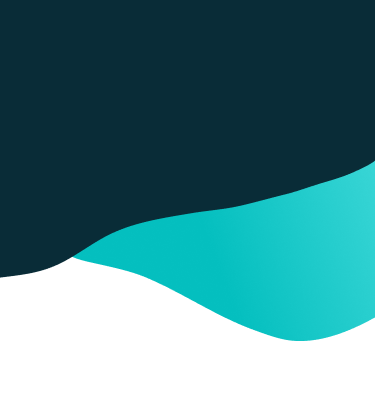
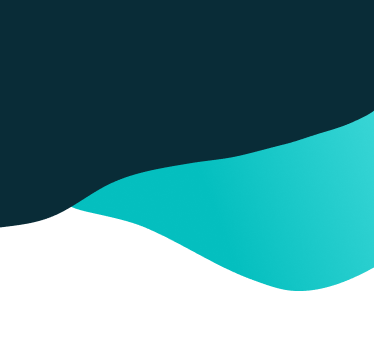
Sign In Changed

Changed region(s): [[0.0, 0.303, 1.0, 0.8485]]

diff --git a/lib/Screens/login.dart b/lib/Screens/login.dart
@@ -1,9 +1,10 @@
+import 'package:flutter/cupertino.dart';
 import 'package:flutter/material.dart';
 import 'package:medicure/constants.dart';
 import 'package:medicure/Components/welcome_pages_appbar.dart';
+import 'package:cupertino_icons/cupertino_icons.dart';
 
 class LoginPage extends StatelessWidget {
-
   @override
   Widget build(BuildContext context) {
     return Scaffold(
@@ -19,143 +20,133 @@ class LoginPage extends StatelessWidget {
             image: DecorationImage(
                 image: AssetImage("images/sign_in_bg.png"),
                 fit: BoxFit.fitWidth,
-                alignment: Alignment.topLeft)),
-        child: Column(
-          mainAxisAlignment: MainAxisAlignment.center,
-          children: [
-            Padding(
-              padding: EdgeInsets.only(left: 36, top: 136),
-              child: Text(
+                alignment: Alignment.topCenter)),
+        child: Padding(
+          padding: EdgeInsets.symmetric(horizontal: 36),
+          child: ListView(
+            children: [
+              SizedBox(height: 14),
+              Text(
                 'Welcome\nBack',
                 style: kheadingTextStyle.copyWith(color: Colors.white),
               ),
-            ),
-            SizedBox(
-              height: 156,
-            ),
-            Column(
-              crossAxisAlignment: CrossAxisAlignment.start,
-              children: [
-                Padding(
-                  padding: kNPELeftPadding,
-                  child: Text(
-                    'Email',
+              SizedBox(height: 125),
+              Text(
+                'Email',
+                style: TextStyle(fontWeight: FontWeight.w500),
+              ),
+              SizedBox(
+                height: 4,
+              ),
+              Opacity(
+                opacity: 0.6,
+                child: TextField(
+                  keyboardType: TextInputType.emailAddress,
+                  textAlign: TextAlign.left,
+                  style: TextStyle(
+                      fontSize: 16,
+                      color: Color(0xFF092C37),
+                      fontWeight: FontWeight.bold),
+                  onChanged: (value) {
+                    //TODO: Functionality.
+                  },
+                  decoration: kTextFieldDecoration.copyWith(
+                    suffixIcon: Icon(
+                      Icons.check_circle,
+                      color: Colors.black,
+                    ),
+                  ),
+                ),
+              ),
+              SizedBox(
+                height: 28,
+              ),
+              Text(
+                'Password',
+                style: TextStyle(
+                  fontWeight: FontWeight.w500,
+                ),
+              ),
+              SizedBox(
+                height: 4,
+              ),
+              Opacity(
+                opacity: 0.6,
+                child: TextField(
+                  keyboardType: TextInputType.visiblePassword,
+                  obscureText: true,
+                  textAlign: TextAlign.left,
+                  style: TextStyle(
+                      fontSize: 16,
+                      color: Color(0xFF092C37),
+                      fontWeight: FontWeight.bold),
+                  onChanged: (value) {
+                    //TODO: Functionality.
+                  },
+                  decoration: kTextFieldDecoration.copyWith(
+                    suffixIcon: Icon(
+                      Icons.remove_red_eye,
+                      color: Colors.black,
+                    ),
+                  ),
+                ),
+              ),
+              SizedBox(
+                height: 45,
+              ),
+              Row(
+                mainAxisAlignment: MainAxisAlignment.spaceBetween,
+                children: [
+                  Text(
+                    'Sign in',
+                    style: TextStyle(
+                      fontWeight: FontWeight.w700,
+                      fontSize: 24,
+                    ),
+                  ),
+                  Material(
+                    color: Colors.black,
+                    shape: CircleBorder(),
+                    elevation: 5.0,
+                    child: Container(
+                      child: Icon(CupertinoIcons.arrow_right, color: Colors.black,size: 40,),
+                      width: 96,
+                      height: 96,
+                      decoration: BoxDecoration(
+                          borderRadius: BorderRadius.all(Radius.circular(56)),
+                          gradient: LinearGradient(
+                              colors: [Color(0xFF092C37).withOpacity(0.4), Color(0xFFF3FBFE).withOpacity(0.4)])
+                      ),
+                    ),
+                  ),
+                ],
+              ),
+              SizedBox(
+                height: 40,
+              ),
+              Row(
+                mainAxisAlignment: MainAxisAlignment.spaceBetween,
+                children: [
+                  Text(
+                    'Sign up',
                     style: TextStyle(
                       fontWeight: FontWeight.w500,
+                      fontSize: 16,
+                      decoration: TextDecoration.underline,
                     ),
                   ),
-                ),
-                SizedBox(
-                  height: 6,
-                ),
-                Padding(
-                  padding: kNPELeftRightPadding,
-                  child: TextField(
-                    keyboardType: TextInputType.emailAddress,
-                    textAlign: TextAlign.center,
-                    onChanged: (value) {
-                      //TODO: Functionality.
-                    },
-                    decoration: kTextFieldDecoration.copyWith(
-                      suffixIcon: Icon(
-                        Icons.email,
-                      ),
+                  Text(
+                    'Forgot Password',
+                    style: TextStyle(
+                      fontWeight: FontWeight.w500,
+                      fontSize: 16,
+                      decoration: TextDecoration.underline,
                     ),
                   ),
-                ),
-                SizedBox(
-                  height: 32,
-                ),
-                Padding(
-                  padding: kNPELeftPadding,
-                  child: Text(
-                    'Password',
-                    style: TextStyle(),
-                  ),
-                ),
-                SizedBox(
-                  height: 6,
-                ),
-                Padding(
-                  padding: kNPELeftRightPadding,
-                  child: TextField(
-                    keyboardType: TextInputType.emailAddress,
-                    textAlign: TextAlign.center,
-                    onChanged: (value) {
-                      //TODO: Functionality.
-                    },
-                    decoration: kTextFieldDecoration.copyWith(
-                      suffixIcon: Icon(
-                        Icons.remove_red_eye,
-                      ),
-                    ),
-                  ),
-                ),
-                SizedBox(
-                  height: 74,
-                ),
-                Row(
-                  crossAxisAlignment: CrossAxisAlignment.center,
-                  mainAxisAlignment: MainAxisAlignment.start,
-                  children: [
-                    Padding(
-                      padding: kNPELeftPadding,
-                      child: Text(
-                        'Sign in',
-                        style: TextStyle(
-                          fontWeight: FontWeight.w700,
-                          fontSize: 24,
-                        ),
-                      ),
-                    ),
-                    SizedBox(
-                      width: 114,
-                    ),
-                    ElevatedButton(
-                      onPressed: () {},
-                      child: Icon(
-                        Icons.arrow_right_alt_rounded,
-                      ),
-                    ),
-                  ],
-                ),
-                SizedBox(
-                  height: 60,
-                ),
-                Row(
-                  crossAxisAlignment: CrossAxisAlignment.center,
-                  mainAxisAlignment: MainAxisAlignment.start,
-                  children: [
-                    Padding(
-                      padding: kNPELeftPadding,
-                      child: Text(
-                        'Sign up',
-                        style: TextStyle(
-                          fontWeight: FontWeight.w500,
-                          fontSize: 16,
-                          decoration: TextDecoration.underline,
-                        ),
-                      ),
-                    ),
-                    SizedBox(
-                      width: 90,
-                    ),
-                    Padding(
-                      padding: kNPELeftPadding,
-                      child: Text(
-                        'Forgot Password',
-                        style: TextStyle(
-                          fontWeight: FontWeight.w500,
-                          fontSize: 16,
-                          decoration: TextDecoration.underline,
-                        ),
-                      ),
-                    ),
-                  ],
-                ),
-              ],
-            ),
-          ],
+                ],
+              ),
+            ],
+          ),
         ),
       ),
     );

diff --git a/lib/Screens/signup.dart b/lib/Screens/signup.dart
@@ -117,7 +117,7 @@ class SignUpPage extends StatelessWidget {
                   ),
                 ),
               ),
-              SizedBox(height: 38),
+              SizedBox(height: 48),
               Row(
                 mainAxisAlignment: MainAxisAlignment.spaceBetween,
                 children: [
